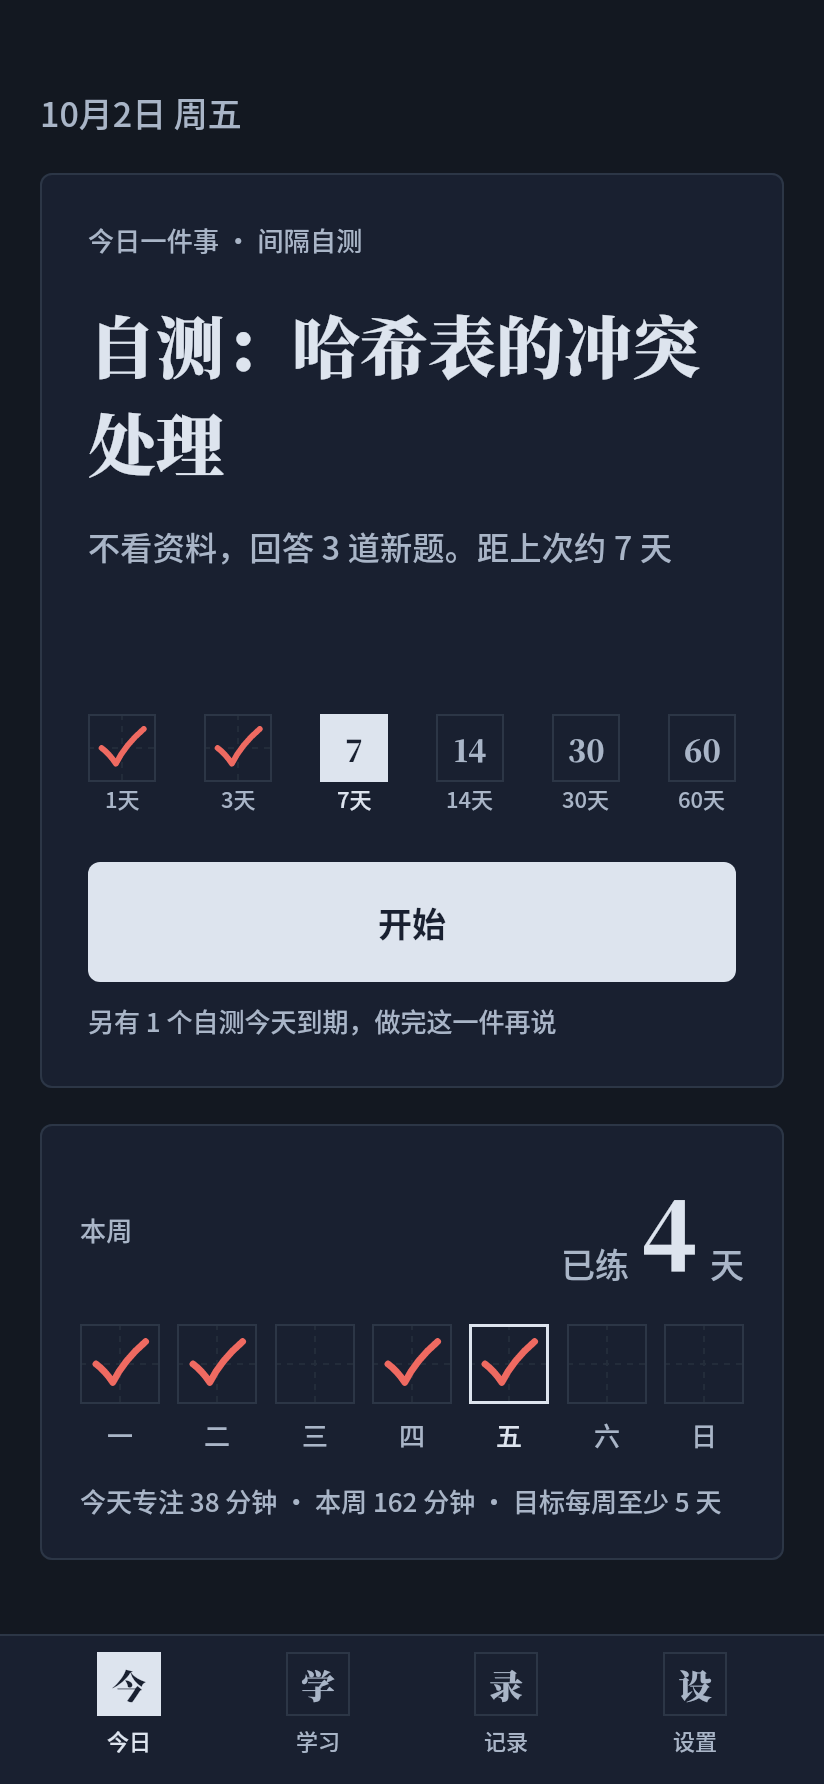
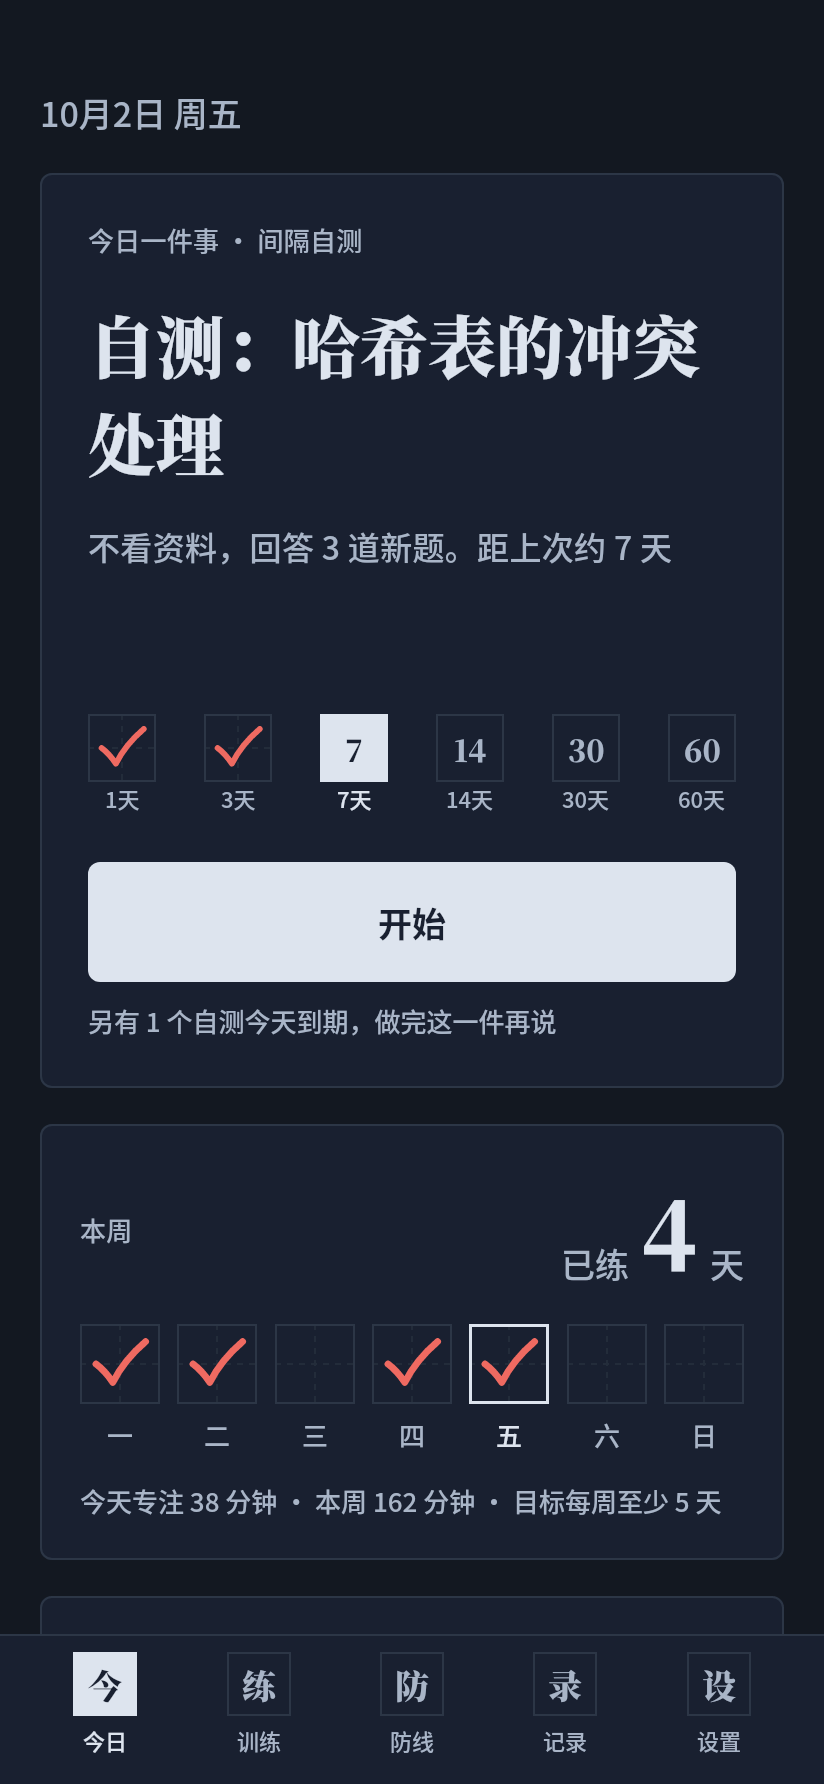
界面细节：大按钮字号、练习行排版、越低越好的走势翻转；README 换 v2 截图
Claude-Session: https://claude.ai/code/session_01RsfCBPvFzFkX2qg5pPyLxn

diff --git a/behavior-app/app/src/main/java/com/behaviordept/app/ui/components/Widgets.kt b/behavior-app/app/src/main/java/com/behaviordept/app/ui/components/Widgets.kt
@@ -24,6 +24,7 @@ import androidx.compose.ui.geometry.CornerRadius
 import androidx.compose.ui.geometry.Offset
 import androidx.compose.ui.geometry.Size
 import androidx.compose.ui.graphics.Path
+import androidx.compose.ui.graphics.PathEffect
 import androidx.compose.ui.graphics.SolidColor
 import androidx.compose.ui.graphics.StrokeCap
 import androidx.compose.ui.graphics.drawscope.Stroke
@@ -60,7 +61,9 @@ fun ChoiceChip(
     ) {
         Text(
             text,
-            style = MaterialTheme.typography.labelLarge,
+            // 大按钮（登记对局这种要一下点准的）用更大的字。
+            style = if (height >= 56.dp) MaterialTheme.typography.titleLarge.copy(fontWeight = FontWeight.Bold, fontFamily = androidx.compose.ui.text.font.FontFamily.Default)
+            else MaterialTheme.typography.labelLarge,
             color = if (selected) p.page else p.ink,
             maxLines = 1,
             overflow = TextOverflow.Ellipsis,
@@ -104,9 +107,9 @@ fun ShareBars(shares: List<Share>, highlight: String?, modifier: Modifier = Modi
     }
 }
 
-/** 小折线：最近几次的数字，最后一个点用红笔。 */
+/** 小折线：最近几次的数字，最后一个点用红笔。lowerIsBetter 时上下翻转，进步总是往上走。 */
 @Composable
-fun Sparkline(values: List<Double>, modifier: Modifier = Modifier) {
+fun Sparkline(values: List<Double>, modifier: Modifier = Modifier, lowerIsBetter: Boolean = false) {
     val p = Paper.colors
     Canvas(modifier.fillMaxWidth().height(56.dp)) {
         if (values.isEmpty()) return@Canvas
@@ -116,7 +119,8 @@ fun Sparkline(values: List<Double>, modifier: Modifier = Modifier) {
         val pad = 6.dp.toPx()
         fun pt(i: Int, v: Double): Offset {
             val x = if (values.size == 1) size.width / 2 else pad + (size.width - 2 * pad) * i / (values.size - 1)
-            val y = size.height - pad - ((v - min) / span * (size.height - 2 * pad)).toFloat()
+            val t = ((v - min) / span).toFloat().let { if (lowerIsBetter) 1f - it else it }
+            val y = size.height - pad - t * (size.height - 2 * pad)
             return Offset(x, y)
         }
         drawLine(p.grid, Offset(0f, size.height - 1), Offset(size.width, size.height - 1), 1.dp.toPx())
@@ -200,5 +204,27 @@ fun SevenDays(checked: List<Boolean>, todayIndex: Int, modifier: Modifier = Modi
                 Text("第${i + 1}天", style = MaterialTheme.typography.labelSmall, color = if (i == todayIndex) p.ink else p.ink2)
             }
         }
+    }
+}
+
+/** 30 天娱乐用时柱状图 + 上限横线，超出部分红色（PRD 视觉规范）。 */
+@Composable
+fun UsageBars(values: List<Int>, limit: Int, modifier: Modifier = Modifier) {
+    val p = Paper.colors
+    Canvas(modifier.fillMaxWidth().height(120.dp)) {
+        val max = maxOf(values.maxOrNull() ?: 0, limit, 1).toFloat() * 1.1f
+        val n = values.size.coerceAtLeast(1)
+        val slot = size.width / n
+        val barW = slot * 0.62f
+        fun y(v: Float) = size.height - size.height * (v / max)
+        values.forEachIndexed { i, v ->
+            val x = i * slot + (slot - barW) / 2
+            val under = minOf(v, limit).toFloat()
+            if (under > 0) drawRect(p.ink2, Offset(x, y(under)), Size(barW, size.height - y(under)))
+            if (v > limit) drawRect(p.red, Offset(x, y(v.toFloat())), Size(barW, y(limit.toFloat()) - y(v.toFloat())))
+        }
+        val ly = y(limit.toFloat())
+        drawLine(p.ink, Offset(0f, ly), Offset(size.width, ly), 1.5.dp.toPx(), pathEffect = PathEffect.dashPathEffect(floatArrayOf(6.dp.toPx(), 4.dp.toPx())))
+        drawLine(p.divider, Offset(0f, size.height), Offset(size.width, size.height), 1.dp.toPx())
     }
 }

diff --git a/behavior-app/app/src/main/java/com/behaviordept/app/guard/GuardScreen.kt b/behavior-app/app/src/main/java/com/behaviordept/app/guard/GuardScreen.kt
@@ -47,6 +47,7 @@ import com.behaviordept.app.ui.appViewModel
 import com.behaviordept.app.ui.components.Hint
 import com.behaviordept.app.ui.components.InkButton
 import com.behaviordept.app.ui.components.LimitBar
+import com.behaviordept.app.ui.components.UsageBars
 import com.behaviordept.app.ui.components.LineButton
 import com.behaviordept.app.ui.components.NumberField
 import com.behaviordept.app.ui.components.PageHeader
@@ -227,28 +228,6 @@ private fun TodayRuleCard(rt: RuleToday, hasPermission: Boolean) {
             Spacer(Modifier.height(6.dp))
             Text("已超限 ${rt.minutes - rt.rule.dailyLimitMin} 分钟", style = MaterialTheme.typography.labelLarge, color = p.red)
         }
-    }
-}
-
-/** 30 天娱乐用时柱状图 + 上限横线，超出部分红色（PRD 视觉规范）。 */
-@Composable
-fun UsageBars(values: List<Int>, limit: Int, modifier: Modifier = Modifier) {
-    val p = Paper.colors
-    Canvas(modifier.fillMaxWidth().height(120.dp)) {
-        val max = maxOf(values.maxOrNull() ?: 0, limit, 1).toFloat() * 1.1f
-        val n = values.size.coerceAtLeast(1)
-        val slot = size.width / n
-        val barW = slot * 0.62f
-        fun y(v: Float) = size.height - size.height * (v / max)
-        values.forEachIndexed { i, v ->
-            val x = i * slot + (slot - barW) / 2
-            val under = minOf(v, limit).toFloat()
-            if (under > 0) drawRect(p.ink2, Offset(x, y(under)), Size(barW, size.height - y(under)))
-            if (v > limit) drawRect(p.red, Offset(x, y(v.toFloat())), Size(barW, y(limit.toFloat()) - y(v.toFloat())))
-        }
-        val ly = y(limit.toFloat())
-        drawLine(p.ink, Offset(0f, ly), Offset(size.width, ly), 1.5.dp.toPx(), pathEffect = PathEffect.dashPathEffect(floatArrayOf(6.dp.toPx(), 4.dp.toPx())))
-        drawLine(p.divider, Offset(0f, size.height), Offset(size.width, size.height), 1.dp.toPx())
     }
 }
 

diff --git a/behavior-app/app/src/main/java/com/behaviordept/app/training/SkillScreen.kt b/behavior-app/app/src/main/java/com/behaviordept/app/training/SkillScreen.kt
@@ -317,11 +317,13 @@ private fun DrillRow(drill: Drill, d: SkillDetail, isNext: Boolean, onStart: () 
             Column(Modifier.weight(1f)) {
                 Text(drill.title.ifBlank { "练习" }, style = MaterialTheme.typography.titleMedium, color = p.ink)
                 Text(
-                    "${drill.minutes} 分钟" + (if (drill.metric.isNotBlank()) " · 记 ${drill.metric}" else "") +
-                        (values.lastOrNull()?.let { " · 上次 ${fmt(it)}" } ?: ""),
+                    "${drill.minutes} 分钟" + (values.lastOrNull()?.let { " · 上次 ${fmt(it)}" } ?: "") + if (isNext) " · 下一个练它" else "",
                     style = MaterialTheme.typography.labelMedium,
                     color = if (isNext) p.red else p.ink2,
                 )
+                if (drill.metric.isNotBlank()) {
+                    Text("记：${drill.metric}", style = MaterialTheme.typography.labelMedium, color = p.ink2)
+                }
             }
             LineButton("开始", onClick = onStart)
         }

diff --git a/behavior-app/app/src/main/java/com/behaviordept/app/data/GuardRepository.kt b/behavior-app/app/src/main/java/com/behaviordept/app/data/GuardRepository.kt
@@ -10,12 +10,6 @@ import kotlinx.coroutines.flow.Flow
 import kotlinx.coroutines.withContext
 import java.time.LocalDate
 
-/** 一条规则当天的用时。 */
-data class RuleToday(val rule: Rule, val minutes: Int) {
-    val over: Boolean get() = minutes > rule.dailyLimitMin
-    val ratio: Float get() = if (rule.dailyLimitMin <= 0) 1f else minutes.toFloat() / rule.dailyLimitMin
-}
-
 /** 防线：规则（带冷静期）、用时读取、冲动登记。 */
 class GuardRepository(
     private val context: Context,

diff --git a/behavior-app/app/src/main/java/com/behaviordept/app/training/DrillFocusScreen.kt b/behavior-app/app/src/main/java/com/behaviordept/app/training/DrillFocusScreen.kt
@@ -244,6 +244,6 @@ private fun FeedbackView(d: Drill, fb: DrillFeedback, noNumber: Boolean) {
         }
         Text(verdict, style = MaterialTheme.typography.titleSmall, color = p.ink)
         fb.best?.let { Text("最近最好：${fmt(it)}" + if (fb.lowerIsBetter) "（越低越好）" else "", style = MaterialTheme.typography.labelMedium, color = p.ink2) }
-        if (fb.history.size >= 2) Sparkline(fb.history)
+        if (fb.history.size >= 2) Sparkline(fb.history, lowerIsBetter = fb.lowerIsBetter)
     }
 }

diff --git a/behavior-app/app/src/main/java/com/behaviordept/app/data/RuleToday.kt b/behavior-app/app/src/main/java/com/behaviordept/app/data/RuleToday.kt
@@ -1,0 +1,7 @@
+package com.behaviordept.app.data
+
+/** 一条规则当天的用时。 */
+data class RuleToday(val rule: Rule, val minutes: Int) {
+    val over: Boolean get() = minutes > rule.dailyLimitMin
+    val ratio: Float get() = if (rule.dailyLimitMin <= 0) 1f else minutes.toFloat() / rule.dailyLimitMin
+}

diff --git a/behavior-app/README.md b/behavior-app/README.md
@@ -1,12 +1,22 @@
 # 行为管理部 App（Android）
 
-需求见 [`docs/PRD.md`](../docs/PRD.md)。当前实现到 **阶段 1**：今日 + 学习 + AI 教练服务 + 提醒 + 事件日志 + 设置。
+需求见 [`docs/PRD.md`](../docs/PRD.md)（v2）。当前版本 0.2.0：
 
-| 今日 | 今日（深色） | 合上讲一遍 | 红笔批改 | 学习单元（深色） |
+- **今日**：唯一的下一步（到期自测 → 学习单元 → 实战复测 → 当前短板专项练 → 新建），一键进入专注
+- **训练**：通用引擎——标准 → 诊断 → 当前唯一重点（锁 7 天）→ 专项练（当场对比以往数字）→ 实战复测；内置 **三角洲行动**、**考公**，可自建动作技能；学习单元也在这里
+- **防线**：自动读取抖音 / B站 / 贴吧 / 小红书 / 红果短剧用时，规则放宽有 24 小时冷静期，“我想刷”先等 3 分钟
+- **记录**：四个成功指标、训练热力图、折腾 vs 训练、周复盘（AI 分析，确认下周唯一重点）
+- 桌面长按图标：“我想刷”“登记一局”
+
+| 今日 | 今日 · 专项练 | 技能：当前重点 + 死因诊断 | 登记一局 | 防线（深色） |
 |---|---|---|---|---|
-| ![](docs/screenshots/today-light.png) | ![](docs/screenshots/today-dark.png) | ![](docs/screenshots/focus-writing-light.png) | ![](docs/screenshots/focus-done-light.png) | ![](docs/screenshots/unit-dark.png) |
+| ![](docs/screenshots/today-light.png) | ![](docs/screenshots/today-drill-light.png) | ![](docs/screenshots/skill-light.png) | ![](docs/screenshots/match-light.png) | ![](docs/screenshots/guard-dark.png) |
 
-截图由同一套 Compose 组件在桌面端离线渲染，正文字体用 Noto Sans SC 代替手机系统字体，真机上会略有差别。
+| 专项练反馈 | 合上讲一遍 | 红笔批改 | 学习单元（深色） | 今日（深色） |
+|---|---|---|---|---|
+| ![](docs/screenshots/drill-done-light.png) | ![](docs/screenshots/focus-writing-light.png) | ![](docs/screenshots/focus-done-light.png) | ![](docs/screenshots/unit-dark.png) | ![](docs/screenshots/today-dark.png) |
+
+截图由同一套 Compose 组件在桌面端离线渲染（部分页面用组件拼的样例数据），正文字体用 Noto Sans SC 代替手机系统字体，真机上会略有差别。
 
 ## 拿到 APK
 
@@ -18,13 +28,15 @@ GitHub Actions 每次推送都会构建 debug APK：仓库 → Actions → **And
 
 ```
 app/src/main/java/com/behaviordept/app/
-  today/      今日一件事、专注模式（训练都在专注里完成）
+  today/      今日一件事、专注模式（学习在专注里完成）
+  training/   训练引擎：诊断、重点锁定、复测、内置技能、对局 / 考试登记、专项练
+  guard/      防线：规则冷静期、用时读取、我想刷
   study/      学习单元四步、间隔规则、步骤格 / 间隔时间线 / 保持率曲线
-  record/     事件日志
+  record/     看板指标、热力图、事件日志、周复盘
   settings/   设置、首次引导、权限
   ai/         统一调用层（Anthropic / OpenAI 兼容）、提示词模板、固定格式解析
-  reminder/   每日提醒（精确闹钟）、自测到期提醒（WorkManager）
-  data/       Room 实体（PRD 数据模型全部 14 个）、DAO、备份、设置存储
+  reminder/   每日提醒（精确闹钟）、自测到期提醒、用时同步与超限提醒（WorkManager）
+  data/       Room 实体（16 张表）、v1→v2 迁移、DAO、仓库、备份、设置存储
   ui/         “练习本”主题和组件
 ```
 
